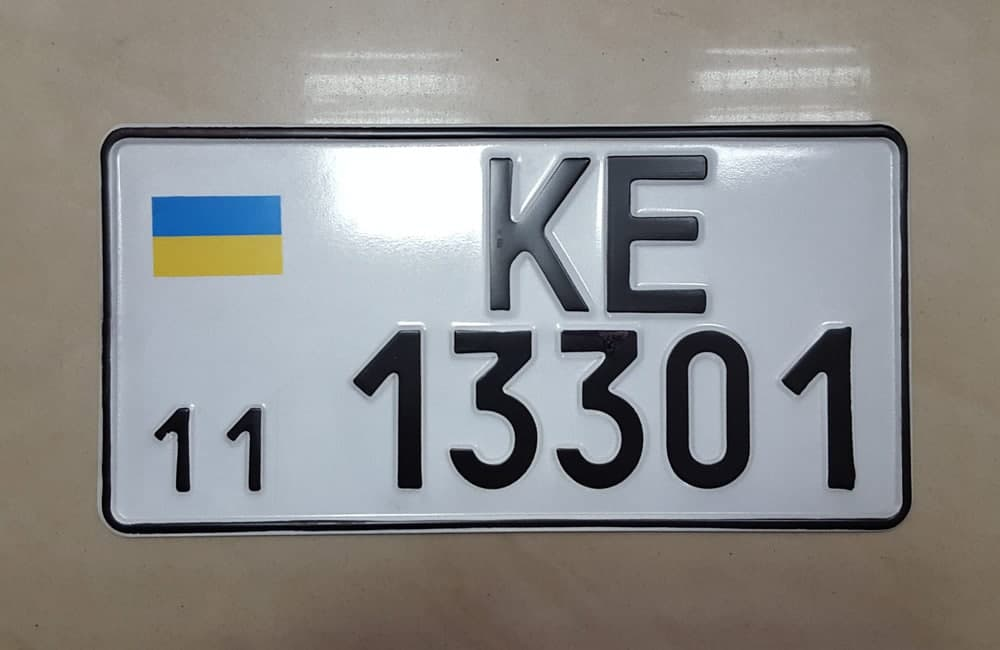
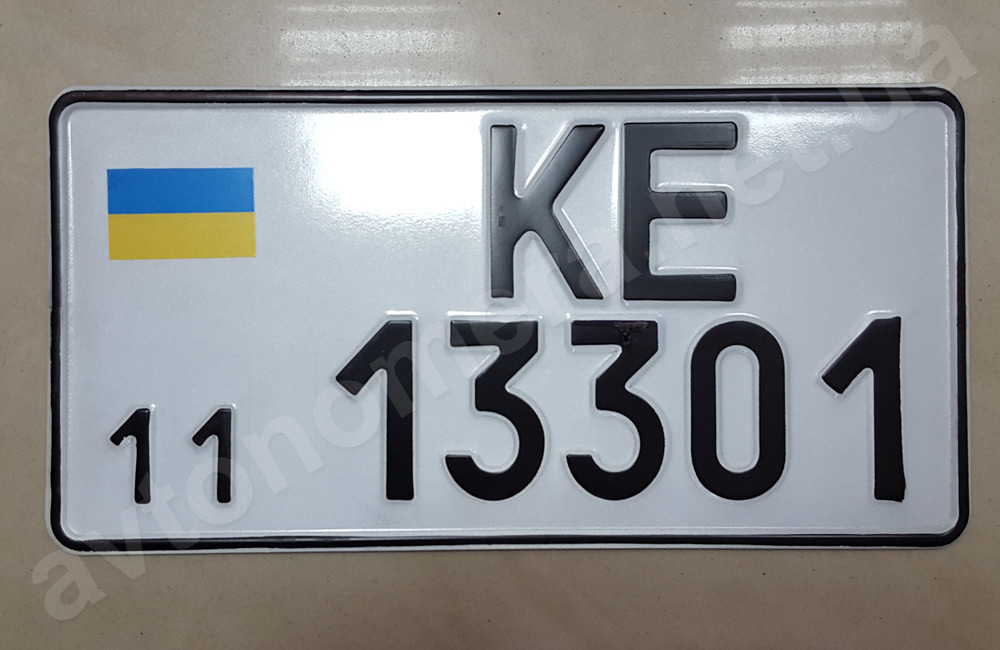
Best number recognition + first ver of image rotation

diff --git a/CarNumberRecognition/__init__.py b/CarNumberRecognition/__init__.py
@@ -1,13 +1,13 @@
 import numpy as np
 import tensorflow as tf
 from cv2 import cv2
+import keras_ocr
 
 tf.compat.v1.logging.set_verbosity(tf.compat.v1.logging.ERROR)
-import keras_ocr
 keras_ocr_pipeline = keras_ocr.pipeline.Pipeline()
 
-def apply_brightness_contrast(input_img, brightness = 0, contrast = 0):
 
+def apply_brightness_contrast(input_img, brightness=0, contrast=0):
     if brightness != 0:
         if brightness > 0:
             shadow = brightness
@@ -15,7 +15,7 @@ def apply_brightness_contrast(input_img, brightness = 0, contrast = 0):
         else:
             shadow = 0
             highlight = 255 + brightness
-        alpha_b = (highlight - shadow)/255
+        alpha_b = (highlight - shadow) / 255
         gamma_b = shadow
 
         buf = cv2.addWeighted(input_img, alpha_b, input_img, 0, gamma_b)
@@ -23,9 +23,9 @@ def apply_brightness_contrast(input_img, brightness = 0, contrast = 0):
         buf = input_img.copy()
 
     if contrast != 0:
-        f = 131*(contrast + 127)/(127*(131-contrast))
+        f = 131 * (contrast + 127) / (127 * (131 - contrast))
         alpha_c = f
-        gamma_c = 127*(1-f)
+        gamma_c = 127 * (1 - f)
 
         buf = cv2.addWeighted(buf, alpha_c, buf, 0, gamma_c)
 
@@ -38,22 +38,20 @@ def update_number(year, number):
         for n in number[:-2]:
             if n == 'O':
                 new_number += '0'
-            elif n == 'Z':
-                new_number += '2'
             else:
                 new_number += n
 
         for n in number[-2:]:
             if n == '0':
                 new_number += 'O'
-            elif n == '2':
-                new_number += 'Z'
             else:
                 new_number += n
     else:
         for n in number[:2]:
             if n == '0':
                 new_number += 'O'
+            elif n == 'L':
+                new_number += 'I'
             else:
                 new_number += n
         for n in number[2:-2]:
@@ -83,16 +81,28 @@ def update_image(img):
 
 
 def say_what_is_it(image):
-    rgb = cv2.cvtColor(image, cv2.COLOR_BGR2RGB)
+    try:
+        image = (255-image)
+        rgb = cv2.cvtColor(image, cv2.COLOR_BGR2RGB)
+    except:
+        return ''
     # gray = cv2.cvtColor(rgb, cv2.COLOR_RGB2GRAY)
     # ret, thresh_gry = cv2.threshold(gray, 50, 255, cv2.THRESH_BINARY)
-    rgb = update_image(rgb)
+    # rgb = update_image(rgb)
 
     prediction_groups = keras_ocr_pipeline.recognize([rgb])
+    answer = ''
     if len(prediction_groups[0]):
-        if len(prediction_groups[0][0]):
-            return rgb, prediction_groups[0][0][0].upper()
-    return ''
+        max_area = 0
+        for prediction in prediction_groups[0]:
+            p, pts = prediction
+            pt_top_left, pt_top_right, pt_bottom_right, pt_bottom_left = pts
+            width, height = pt_top_right[0] - pt_top_left[0], pt_bottom_right[1] - pt_top_right[1]
+            area = width * height
+            if area > max_area:
+                max_area = area
+                answer = p
+    return answer.upper()
 
 # if __name__ == '__main__':
 #     from NumberFinder import find_coordinates_of_number_letters_american_1995
@@ -104,5 +114,3 @@ def say_what_is_it(image):
 #     cv2.imshow('Cropped', cropped)
 #     cv2.waitKey(0)
 #     # print(say_what_is_it(img))
-
-

diff --git a/test_1.py b/test_1.py
@@ -15,21 +15,43 @@ from NumberFinder import find_coordinates_of_number_letters_american_1995, \
     search_scope, find_blue
 
 funcs_of_type = {
-    1995: {
+    1995: [
         find_coordinates_of_number_letters_american_1995,
         find_coordinates_of_number_letters_standard_1995,
         find_coordinates_of_number_letters_tractor_1995
-    },
-    2004: {
+    ],
+    2004: [
         find_coordinates_of_number_letters_american_2004,
         find_coordinates_of_number_letters_standard_2004,
         find_coordinates_of_number_letters_tractor_2004
-    },
-    2015: {
+    ],
+    2015: [
         find_coordinates_of_number_letters_american_2015,
         find_coordinates_of_number_letters_standard_2015
-    }
+    ]
 }
+
+def get_scopes(image):
+    blue_coordinates = find_blue(img)
+    yellow_coordinates = find_yellow(img)
+    year = get_type_of_car_number(*blue_coordinates[2:], *yellow_coordinates[2:])
+    needed_funcs = funcs_of_type[year]
+    answer = {}
+    for func in needed_funcs:
+        type_number = "_".join(func.__name__.split('_')[-2:])
+        scopes = search_scope(img, func)
+        answer[type_number] = scopes
+    return answer
+
+
+def draw_scopes(image, scopes):
+    img = image.copy()
+    for i in range(len(scopes)):
+        scope = scopes[i]
+        x, y, width, height = (int(num) for num in scope)
+        cv2.rectangle(img, (x, y), (x+width, y+height), (0, 0, 0), 1)
+    return img
+
 
 def is_number(number):
     answer = True
@@ -56,6 +78,9 @@ def check_number(type_number, number):
     return False
 
 
+
+
+
 def get_number(img):
     x, y, width, height = blue_coordinates = find_blue(img)
     # cv2.rectangle(img, (x, y), (x+width, y+height), (0, 0, 255), 1)
@@ -75,10 +100,9 @@ def get_number(img):
             # gry = cv2.cvtColor(cropped, cv2.COLOR_BGR2GRAY)
             # ret, thresh_gry = cv2.threshold(gry, 120, 255, cv2.THRESH_BINARY)
             its = say_what_is_it(cropped)
-            answer.append(its[1])
-            cv2.imwrite(f'Output/{answer[-1]}.jpg', its[0])
+            answer.append(its)
+            # cv2.imwrite(f'Output/{answer[-1]}.jpg', its[0])
         answer = update_number(year, "".join(answer))
-        print(answer)
         if check_number(type_number, answer):
             return type_number, answer
     return answers
@@ -86,14 +110,24 @@ def get_number(img):
 
 if __name__ == '__main__':
 
+    # img_names = os.listdir('Input')
+    #
+    # for name in img_names:
+    #     try:
+    #         img = cv2.imread(f'Input/{name}')
+    #         print(name, get_number(img))
+    #     except:
+    #         print(name, 'error')
     img_names = os.listdir('Input')
-
     for name in img_names:
-        try:
-            img = cv2.imread(f'Input/{name}')
-            print(name, get_number(img))
-        except:
-            print(name, 'error')
+        if not 'american_1995' in name:
+            continue
+        img = cv2.imread(f'Input/{name}')
+        # print(get_number(img))
+        scopes = get_scopes(img)
+        for _name in scopes.keys():
+            cv2.imshow(name+_name, draw_scopes(img, scopes[_name]))
+    cv2.waitKey(0)
 
 
 

diff --git a/NumberFinder/__init__.py b/NumberFinder/__init__.py
@@ -31,19 +31,23 @@ import cv2
 #     cv2.putText(buf,'B:{},C:{}'.format(brightness,contrast),(10, 30), cv2.FONT_HERSHEY_SIMPLEX, 1, (0, 0, 255), 2)
 #     return buf
 
+def scope_to_int(_scope):
+    # return [[int(number) for number in point] for point in _scope]
+    return _scope
+
 
 def find_coordinates_of_number_letters_american_1995(x, y, width, height):
-    first_x = x - (width / 15)
+    first_x = x - (width / 5)
     first_y = y + (4 * height)
     first_width = width * 195 / 130
     first_height = height * 151 / 40
 
-    second_x = first_x + 1.6 * first_width
-    second_y = y - height * 1.3
+    second_x = first_x + first_width + (width / 2)
+    second_y = y - height * 1.5
     second_width = width * 387 / 130
     second_height = height * 180 / 40
 
-    third_x = second_x - (x / (x / 87))
+    third_x = first_x + first_width
     third_y = second_y + second_height
     third_width = width * 590 / 130
     third_height = height * 204 / 40
@@ -51,7 +55,6 @@ def find_coordinates_of_number_letters_american_1995(x, y, width, height):
         [first_x, first_y, first_width, first_height],
         [third_x, third_y, third_width, third_height],
         [second_x, second_y, second_width, second_height]
-
     )
 
 
@@ -62,9 +65,9 @@ def find_coordinates_of_number_letters_american_2004(x, y, width, height):
     first_y = y
 
     second_width = first_width * 1.1
-    second_height = height * 1.05
+    second_height = height
     second_x = first_x + first_width + (width / 1.2) * 0.7
-    second_y = y * 1.1
+    second_y = first_y
 
     third_width = width * 119 / 28
     third_height = height
@@ -156,7 +159,7 @@ def find_coordinates_of_number_letters_standard_2004(x, y, width, height):
 def find_coordinates_of_number_letters_standard_2015(x, y, width, height):
     first_x = x + width
     first_y = y
-    first_width = width * 264 / 87
+    first_width = width * 264 / 87 * 0.87
     first_height = height
 
     second_x = first_x + first_width
@@ -224,7 +227,7 @@ def find_coordinates_of_number_letters_tractor_2004(x, y, width, height):
 
 def search_scope(image, function):
     blue_x, blue_y, blue_width, blue_height = find_blue(image)
-    return function(blue_x, blue_y, blue_width, blue_height)
+    return scope_to_int(function(blue_x, blue_y, blue_width, blue_height))
 
 
 if __name__ == '__main__':

diff --git a/NumberFinder/ColorFinder.py b/NumberFinder/ColorFinder.py
@@ -1,5 +1,4 @@
 import cv2
-import module as module
 import numpy as np
 
 lower_blue = [90, 50, 120]
@@ -8,9 +7,32 @@ lower_yellow = [22, 93, 0]
 upper_yellow = [45, 255, 255]
 
 
+# def find_points_of_blue(img):
+    # hsv = cv2.cvtColor(img, cv2.COLOR_RGB2HSV)
+    # lower = np.array(lower_blue, dtype='uint8')
+    # upper = np.array(upper_blue, dtype='uint8')
+    #
+    # mask = cv2.inRange(hsv, lower, upper)
+    # contours = cv2.findContours(mask, cv2.RETR_EXTERNAL, cv2.CHAIN_APPROX_SIMPLE)
+    #
+    # for contour in contours:
+    #     approx = cv2.approxPolyDP(contour, 0.009 * cv2.arcLength(contour, True), True)
+    #
+    #     cv2.drawContours(img, [approx], 0, (0, 0, 255), 2)
+    #
+    #     n = approx.ravel()
+    #     i = 0
+    #
+    #     for j in n:
+    #         if i % 2 == 0:
+    #             x = n[i]
+    #             y = n[i + 1]
+    #         j += 1
+    #         return x, y
+
+
 def find_blue(img):
     hsv = cv2.cvtColor(img, cv2.COLOR_BGR2HSV)
-
     lower = np.array(lower_blue, dtype='uint8')
     upper = np.array(upper_blue, dtype='uint8')
 
@@ -41,3 +63,6 @@ def find_yellow(img):
         # cv2.rectangle(img, (x, y), (x + width, y + height), (0, 190, 0), 2)
         return x, y, width, height
     return False
+
+
+# if __name__ == '__main__':
